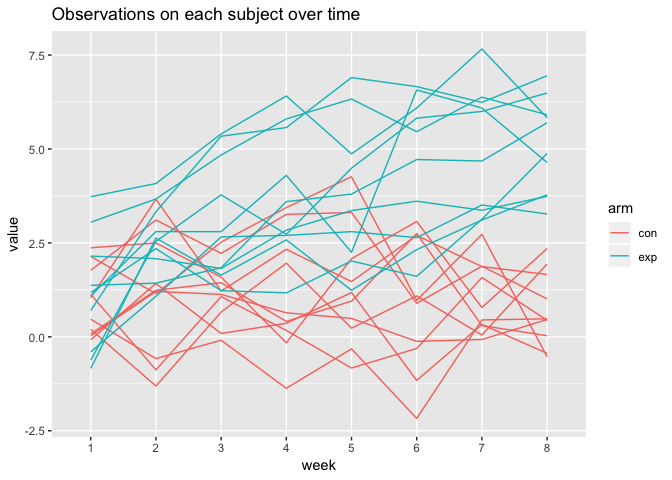
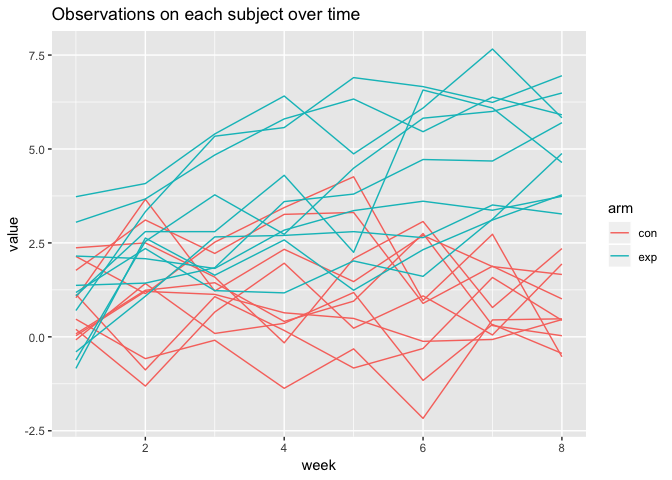
modification

diff --git a/p8105_hw5_xy2395.md b/p8105_hw5_xy2395.md
@@ -9,7 +9,10 @@ Problem 1
 Data manipulation
 -----------------
 
+Create a tidy dataframe containing data from all participants, including the subject ID, arm, and observations over time.
+
 ``` r
+# Start with a dataframe containing all file names
 data_p1 = 
   list.files("./data/problem_1") %>% 
   as.tibble() %>% 
@@ -17,35 +20,46 @@ data_p1 =
          new_id = 1:20
          )
 
+# Iterate over file names and read in data for each subject 
+# Save the result as a new variable in the dataframe
 data_p1 = 
   map(.x = data_p1$value, ~read_csv(.x)) %>%
-  mutate(data_p1, data = .) %>% 
-  unnest %>% 
-  mutate(value = str_replace(value, "./data/problem_1/", "")) %>% 
-  mutate(value = str_replace(value, ".csv", "")) %>% 
+  mutate(data_p1, data = .) 
+
+# Tidy the result
+data_p1 = 
+  data_p1 %>% 
+  unnest %>%  
+  # manipulate file names to include control arm and subject ID
+  mutate(value = str_replace(value, "./data/problem_1/", ""),
+         value = str_replace(value, ".csv", "")) %>% 
   separate(value, into = c("arm", "id"), sep = "_") %>% 
+  # make sure weekly observations are “tidy”
   gather(key = week, value = value, week_1:week_8) %>% 
+  # do other tidying
   mutate(week = str_replace(week, "week_", ""),
          arm = as.factor(arm),
-         week = as.factor(week),
-         id = as.numeric(id) %>% as.factor()
+         week = as.integer(week),
+         id = as.numeric(id)
   )
 
 head(data_p1)
 ```
 
     ## # A tibble: 6 x 5
-    ##   arm   id    new_id week  value
-    ##   <fct> <fct>  <int> <fct> <dbl>
-    ## 1 con   1          1 1      0.2 
-    ## 2 con   2          2 1      1.13
-    ## 3 con   3          3 1      1.77
-    ## 4 con   4          4 1      1.04
-    ## 5 con   5          5 1      0.47
-    ## 6 con   6          6 1      2.37
+    ##   arm      id new_id  week value
+    ##   <fct> <dbl>  <int> <int> <dbl>
+    ## 1 con       1      1     1  0.2 
+    ## 2 con       2      2     1  1.13
+    ## 3 con       3      3     1  1.77
+    ## 4 con       4      4     1  1.04
+    ## 5 con       5      5     1  0.47
+    ## 6 con       6      6     1  2.37
 
 Plot
 ----
+
+Make a spaghetti plot showing observations on each subject over time, and comment on differences between groups.
 
 ``` r
 # plot observations on each subject over time
@@ -138,8 +152,8 @@ custom_prop_test = function(x_city){
     filter(city_state == x_city)
 
   prop.test(sample$n_unsolved, sample$n_total) %>% 
-  broom::tidy() %>% 
-  select(estimate, conf.low, conf.high)
+    broom::tidy() %>% 
+    select(estimate, conf.low, conf.high)
 }
 ```
 
